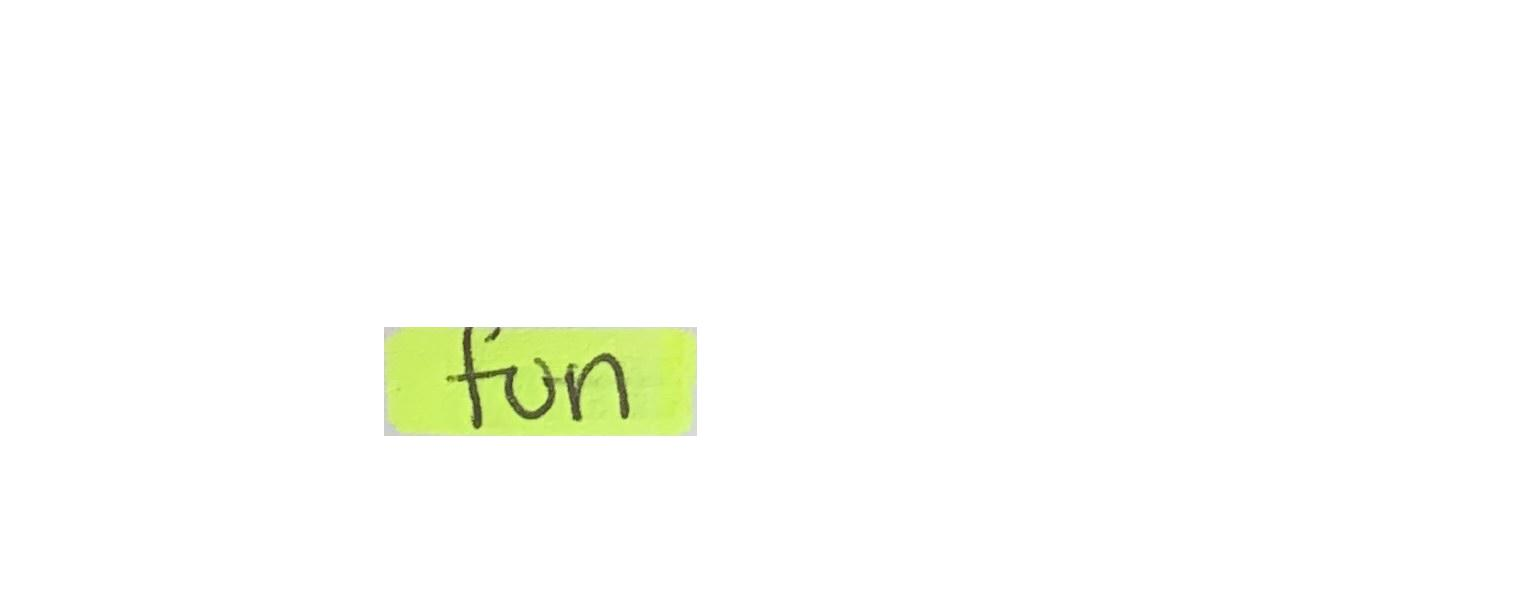
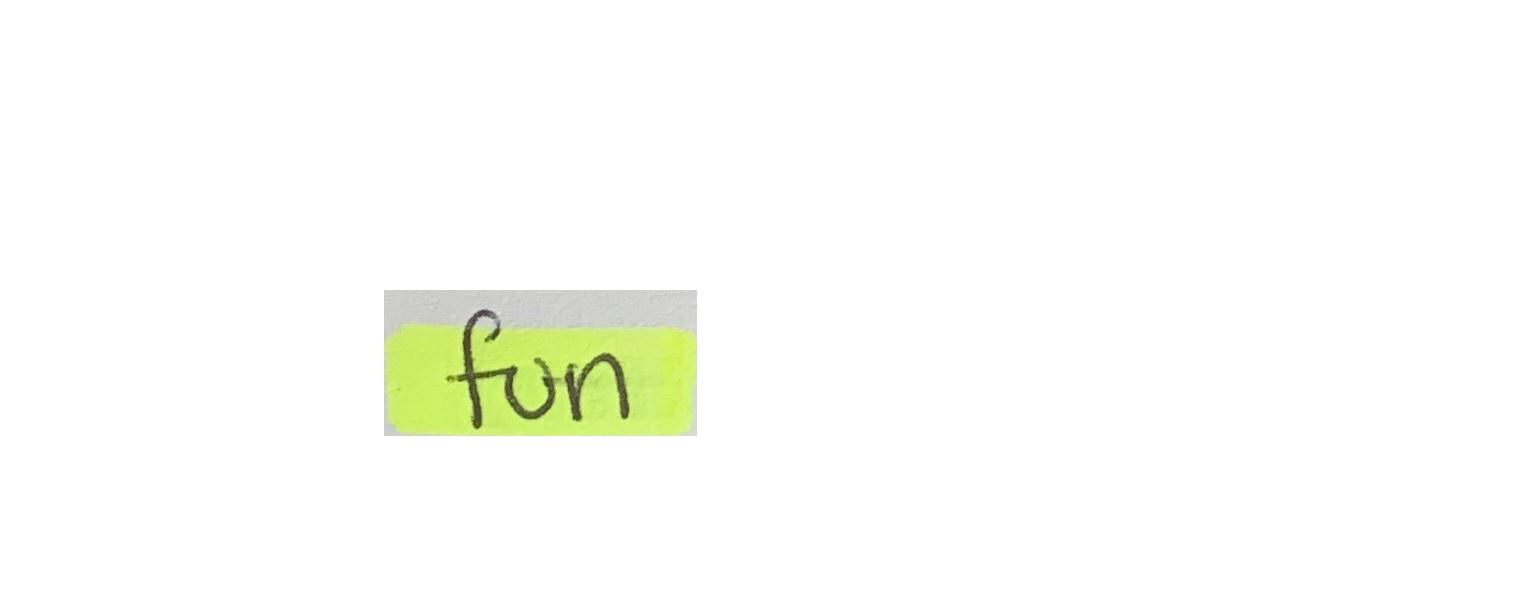
Text Overflow Update
Now accounts for text overflowing out of highlighted zone. Needs update for multiple highlighted words

Changed region(s): [[0.2462, 0.4881, 0.4617, 0.5797]]

diff --git a/api/Highlighted_Word_Finder.py b/api/Highlighted_Word_Finder.py
@@ -19,7 +19,15 @@ def compareColors(colorList_1,colorList_2,tolerance):
     else:
         return False
 
+#Detects whether the first color is significantly darker than the second color based on the tolerance percentage
+def detect_darker_color(possibleDarkerColor, lightColor, tolerancePercentage):
+    if possibleDarkerColor[0] + possibleDarkerColor[1] + possibleDarkerColor[2] < (lightColor[0] + lightColor[1] + lightColor[2]) * tolerancePercentage:
+        return True
+    else:
+        return False
+
 #Does a scan of an image with a step size depending on image size and uses Google Vision OCR on highlighted words
+#TODO: Adjust code to handle multiple highlighted words
 def find_highlighted_words(path):
     selected_image = PIL.Image.open(path)
     image_width = selected_image.width
@@ -31,6 +39,8 @@ def find_highlighted_words(path):
     
     colorScanTolerance = 100
     highlightColorTolerance = 50
+    overflowTextContrastTolerance = 0.8
+    overflowTextHeightMultiplier = 0.35
     
     stepSizeX = 1
     stepSizeY = 1
@@ -97,18 +107,17 @@ def find_highlighted_words(path):
     print("Filtered highlight coordinates: ")
     for i in coordinatesList:
         print(i)
-    
-    #TODO: Scan to adjust highlight coordinates to account for text sticking out of the highlight
-    """
+        
+    #Checks for text sticking out of the highlight and adjusts highlight coordinates to account for it
     for color in coordinatesList:
         for x in range(color[1], color[3], stepSizeX):
-            if detect_dark_color(selected_image.getpixel((color[2],x)), color[0]):
-                recursiveGetStickyOutyText(color[0], )
-            if selected_image.getpixel((color[4],x)):
-                
-        for y in range(color[2], color[4], stepSizeY):
-            count = 1
-    """
+            if detect_darker_color(selected_image.getpixel((x,color[2])), color[0], overflowTextContrastTolerance):
+                color[2] = color[2] - ((color[4] - color[2]) * overflowTextHeightMultiplier)
+            if detect_darker_color(selected_image.getpixel((x,color[4])), color[0], overflowTextContrastTolerance):
+                color[4] = color[4] + ((color[4] - color[2]) * overflowTextHeightMultiplier)
+
+    #TODO: Use a visitedMatrix and 'for loops' to separate multiple highlighted words
+
     #Colors areas outside of coordinate blocks white and saves as new images for each coordinate block
     imageCount = 0
     for color in coordinatesList:
